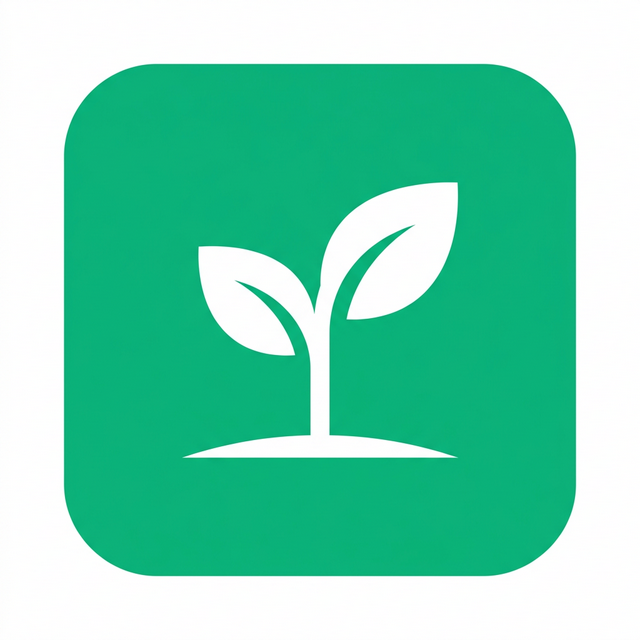
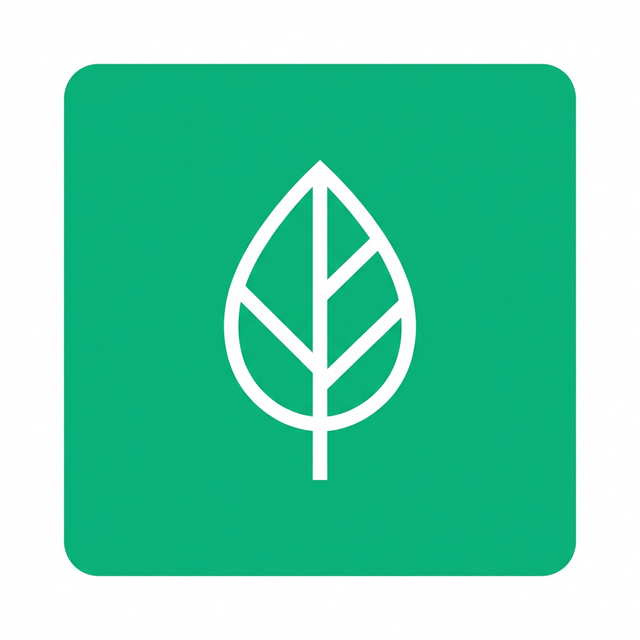
feat: enhance live tracking with improved geolocation permission handling, error management, and updated PWA assets.

diff --git a/frontend/src/components/LiveTracker.tsx b/frontend/src/components/LiveTracker.tsx
@@ -14,7 +14,7 @@ interface Props {
         mode: string;
         start_name: string;
         end_name: string;
-    }) => void;
+    }) => Promise<void>;
     onCancel: () => void;
 }
 
@@ -118,9 +118,26 @@ export default function LiveTracker({ userId, demoMode, onJourneyComplete, onCan
         );
     }, []);
 
-    // Request on mount
+    // Request on mount - REMOVED to avoid browser blocking without user gesture
     useEffect(() => {
-        requestLocation();
+        // We only check for permission status on mount, not request location
+        if ('permissions' in navigator) {
+            navigator.permissions.query({ name: 'geolocation' as PermissionName }).then(result => {
+                if (result.state === 'granted') {
+                    requestLocation();
+                } else if (result.state === 'prompt') {
+                    setLocating(false);
+                } else {
+                    setLocating(false);
+                    setError('Location permission is denied in browser settings.');
+                }
+            }).catch(() => {
+                setLocating(false);
+            });
+        } else {
+            setLocating(false);
+        }
+
         return () => {
             if (watchIdRef.current !== null) navigator.geolocation.clearWatch(watchIdRef.current);
             if (timerRef.current) clearInterval(timerRef.current);
@@ -129,8 +146,15 @@ export default function LiveTracker({ userId, demoMode, onJourneyComplete, onCan
 
     const startTracking = useCallback(() => {
         if (!mode) return;
+
+        // If we don't have a position yet, try to get it (user gesture)
+        if (!position) {
+            requestLocation();
+            return;
+        }
+
         setTracking(true);
-        setTrail(position ? [position] : []);
+        setTrail([position]);
         setDistance(0);
         setElapsedSec(0);
         startTimeRef.current = Date.now();
@@ -166,33 +190,49 @@ export default function LiveTracker({ userId, demoMode, onJourneyComplete, onCan
     }, [mode, position]);
 
     const stopTracking = useCallback(async () => {
+        if (distance < 0.01) {
+            setError('Journey too short to save (min 10m required).');
+            return;
+        }
+
         setStopping(true);
+        setError('');
 
-        // Stop GPS and timer
-        if (watchIdRef.current !== null) {
-            navigator.geolocation.clearWatch(watchIdRef.current);
-            watchIdRef.current = null;
-        }
-        if (timerRef.current) {
-            clearInterval(timerRef.current);
-            timerRef.current = null;
-        }
+        try {
+            // Reverse geocode start and end
+            let startName = 'Start';
+            let endName = 'End';
+            if (trail.length > 0) {
+                try {
+                    startName = await reverseGeocode(trail[0].lat, trail[0].lng);
+                    const last = trail[trail.length - 1];
+                    endName = await reverseGeocode(last.lat, last.lng);
+                } catch (e) {
+                    console.error('Geocoding failed', e);
+                }
+            }
 
-        // Reverse geocode start and end
-        let startName = 'Start';
-        let endName = 'End';
-        if (trail.length > 0) {
-            startName = await reverseGeocode(trail[0].lat, trail[0].lng);
-            const last = trail[trail.length - 1];
-            endName = await reverseGeocode(last.lat, last.lng);
-        }
+            // Call parent save
+            await onJourneyComplete({
+                distance_km: Math.round(distance * 100) / 100,
+                mode: mode!,
+                start_name: startName,
+                end_name: endName,
+            });
 
-        onJourneyComplete({
-            distance_km: Math.round(distance * 100) / 100,
-            mode: mode!,
-            start_name: startName,
-            end_name: endName,
-        });
+            // If successful, stop GPS and timer
+            if (watchIdRef.current !== null) {
+                navigator.geolocation.clearWatch(watchIdRef.current);
+                watchIdRef.current = null;
+            }
+            if (timerRef.current) {
+                clearInterval(timerRef.current);
+                timerRef.current = null;
+            }
+        } catch (err: any) {
+            setError(err.message || 'Failed to save journey. Please check connection.');
+            setStopping(false);
+        }
     }, [trail, distance, mode, onJourneyComplete]);
 
     const formatTime = (sec: number) => {
@@ -262,7 +302,7 @@ export default function LiveTracker({ userId, demoMode, onJourneyComplete, onCan
 
     // Phase 2: Mode selected, ready to start
     if (!tracking && mode) {
-        const modeInfo = TRANSPORT_MODES.find(m => m.key === mode)!;
+        const modeInfo = TRANSPORT_MODES.find(m => m.key === mode) || TRANSPORT_MODES[0];
         return (
             <div className="animate-fade-in-up">
                 <div className="text-center mb-4">
@@ -273,42 +313,55 @@ export default function LiveTracker({ userId, demoMode, onJourneyComplete, onCan
 
                 <div className="bg-white rounded-2xl shadow-lg border border-brand-100 overflow-hidden">
                     {/* Map preview */}
-                    {position && (
-                        <div className="h-48 relative">
+                    <div className="h-48 bg-gray-100 relative">
+                        {position ? (
                             <MapContainer
                                 center={[position.lat, position.lng]}
                                 zoom={15}
                                 style={{ height: '100%', width: '100%' }}
                                 zoomControl={false}
-                                attributionControl={false}
+                                dragging={false}
+                                touchZoom={false}
+                                scrollWheelZoom={false}
                             >
                                 <TileLayer url="https://{s}.tile.openstreetmap.org/{z}/{x}/{y}.png" />
-                                <CircleMarker
-                                    center={[position.lat, position.lng]}
-                                    radius={8}
-                                    pathOptions={{ color: '#10B981', fillColor: '#10B981', fillOpacity: 0.8, weight: 3 }}
-                                />
+                                <CircleMarker center={[position.lat, position.lng]} radius={8} fillOpacity={1} color="white" fillColor="#10B981" weight={3} />
+                                <MapFollower position={position} />
                             </MapContainer>
-                            <div className="absolute top-2 left-2 bg-white/90 backdrop-blur-sm px-2 py-1 rounded-lg text-[10px] text-gray-500 z-[500]">
-                                📍 Your location
+                        ) : (
+                            <div className="absolute inset-0 flex flex-col items-center justify-center p-6 text-center">
+                                <Navigation className="w-8 h-8 text-gray-300 mb-2 animate-pulse" />
+                                <p className="text-xs text-gray-400">Waiting for GPS signal...</p>
+                                {!locating && (
+                                    <button
+                                        onClick={requestLocation}
+                                        className="mt-3 px-4 py-1.5 bg-brand-500 text-white text-xs font-semibold rounded-full shadow-md"
+                                    >
+                                        Enable Location
+                                    </button>
+                                )}
                             </div>
-                        </div>
-                    )}
+                        )}
+                    </div>
 
-                    <div className="p-5 space-y-3">
+                    <div className="p-4 flex gap-3">
                         <button
-                            onClick={startTracking}
-                            disabled={!position}
-                            className="w-full flex items-center justify-center gap-2 py-3 bg-brand-500 hover:bg-brand-600 disabled:bg-gray-300 text-white font-bold rounded-xl transition-colors shadow-lg shadow-brand-200"
+                            onClick={() => {
+                                setMode(null);
+                                setError('');
+                            }}
+                            className="flex-1 py-3 bg-gray-50 hover:bg-gray-100 text-gray-600 font-bold rounded-xl transition-colors border border-gray-100"
                         >
-                            <Play className="w-5 h-5" fill="white" />
-                            Start Tracking
+                            Change Mode
                         </button>
                         <button
-                            onClick={() => setMode(null)}
-                            className="w-full py-2 text-sm text-gray-500 hover:text-gray-700 transition-colors"
+                            onClick={startTracking}
+                            disabled={!position || locating}
+                            className={`flex-[2] py-3 rounded-xl font-bold text-white shadow-lg transition-all flex items-center justify-center gap-2 ${!position || locating ? 'bg-gray-300 cursor-not-allowed shadow-none' : 'bg-brand-500 hover:bg-brand-600'
+                                }`}
                         >
-                            ← Change transport mode
+                            <Play className="w-5 h-5 fill-current" />
+                            Start Tracking
                         </button>
                     </div>
                 </div>
@@ -316,7 +369,10 @@ export default function LiveTracker({ userId, demoMode, onJourneyComplete, onCan
                 {error && (
                     <div className="mt-3 px-3 py-3 bg-red-50 rounded-lg">
                         <p className="text-red-600 text-xs">{error}</p>
-                        <button onClick={requestLocation} className="mt-2 flex items-center gap-1.5 px-3 py-1.5 bg-red-100 hover:bg-red-200 text-red-700 text-xs font-medium rounded-lg transition-colors">
+                        <button
+                            onClick={requestLocation}
+                            className="mt-2 flex items-center gap-1.5 px-3 py-1.5 bg-red-100 hover:bg-red-200 text-red-700 text-xs font-medium rounded-lg transition-colors"
+                        >
                             <RefreshCw className="w-3 h-3" /> Retry Location
                         </button>
                     </div>
@@ -326,7 +382,7 @@ export default function LiveTracker({ userId, demoMode, onJourneyComplete, onCan
     }
 
     // Phase 3: Actively tracking
-    const modeInfo = TRANSPORT_MODES.find(m => m.key === mode)!;
+    const activeModeInfo = TRANSPORT_MODES.find(m => m.key === mode) || TRANSPORT_MODES[0];
     return (
         <div className="animate-fade-in-up">
             <div className="bg-white rounded-2xl shadow-lg border border-brand-100 overflow-hidden">
@@ -379,7 +435,7 @@ export default function LiveTracker({ userId, demoMode, onJourneyComplete, onCan
 
                     {/* Mode badge */}
                     <div className="absolute top-3 right-3 z-[500] bg-white/90 backdrop-blur-sm px-2 py-1 rounded-lg text-sm">
-                        {modeInfo.icon} {modeInfo.label}
+                        {activeModeInfo.icon} {activeModeInfo.label}
                     </div>
                 </div>
 
@@ -409,23 +465,31 @@ export default function LiveTracker({ userId, demoMode, onJourneyComplete, onCan
                         <div className={`text-lg font-bold ${co2Saved > 0 ? 'text-brand-600' : 'text-gray-800'}`}>
                             {co2Saved > 0 ? `+${(co2Saved / 1000).toFixed(1)}` : '0.0'}
                         </div>
-                        <div className="text-[10px] text-gray-400">kg vs driving</div>
+                        <div className="text-[10px] text-gray-400">kg</div>
                     </div>
                 </div>
 
-                {/* Stop button */}
-                <div className="p-4 border-t border-gray-100">
+                <div className="p-5 bg-gray-50 border-t border-gray-100">
                     <button
                         onClick={stopTracking}
-                        disabled={stopping || distance < 0.01}
-                        className="w-full flex items-center justify-center gap-2 py-3.5 bg-red-500 hover:bg-red-600 disabled:bg-gray-300 text-white font-bold rounded-xl transition-colors shadow-lg shadow-red-200"
+                        disabled={stopping}
+                        className="w-full py-4 bg-gray-800 hover:bg-gray-900 text-white font-bold rounded-2xl shadow-xl transition-all flex items-center justify-center gap-3 disabled:bg-gray-400"
                     >
-                        <Square className="w-5 h-5" fill="white" />
-                        {stopping ? 'Saving Journey...' : 'Stop & Save Journey'}
+                        {stopping ? (
+                            <>
+                                <Loader2 className="w-5 h-5 animate-spin" />
+                                Saving your journey...
+                            </>
+                        ) : (
+                            <>
+                                <Square className="w-5 h-5 fill-current" />
+                                Stop & Save Journey
+                            </>
+                        )}
                     </button>
-                    {distance < 0.01 && (
-                        <p className="text-center text-[10px] text-gray-400 mt-2">Start moving to enable saving</p>
-                    )}
+                    <p className="mt-3 text-center text-xs text-gray-400">
+                        Stay on this screen until you finish your travel
+                    </p>
                 </div>
             </div>
 

diff --git a/frontend/index.html b/frontend/index.html
@@ -16,13 +16,13 @@
   <meta name="apple-mobile-web-app-capable" content="yes" />
   <meta name="apple-mobile-web-app-status-bar-style" content="black-translucent" />
   <meta name="apple-mobile-web-app-title" content="GreenApp" />
-  <link rel="apple-touch-icon" href="/icon-192.png" />
+  <link rel="apple-touch-icon" href="/icon-192.svg" />
 
   <!-- Android -->
   <meta name="mobile-web-app-capable" content="yes" />
 
   <!-- Favicon -->
-  <link rel="icon" type="image/png" href="/icon-192.png" />
+  <link rel="icon" type="image/svg+xml" href="/icon-192.svg" />
 
   <!-- Fonts & Maps -->
   <link rel="preconnect" href="https://fonts.googleapis.com">

diff --git a/frontend/src/components/JourneyInput.tsx b/frontend/src/components/JourneyInput.tsx
@@ -210,8 +210,11 @@ export default function JourneyInput({ userId, demoMode, onJourneyLogged }: Prop
                   mode: data.mode,
                 });
                 onJourneyLogged(result);
+                return Promise.resolve();
               } catch (err: any) {
-                setError(err.message || 'Failed to log journey');
+                const msg = err.message || 'Failed to log journey';
+                setError(msg);
+                throw new Error(msg); // Re-throw so LiveTracker can catch it
               }
             }}
             onCancel={() => setTrackingMode('manual')}
